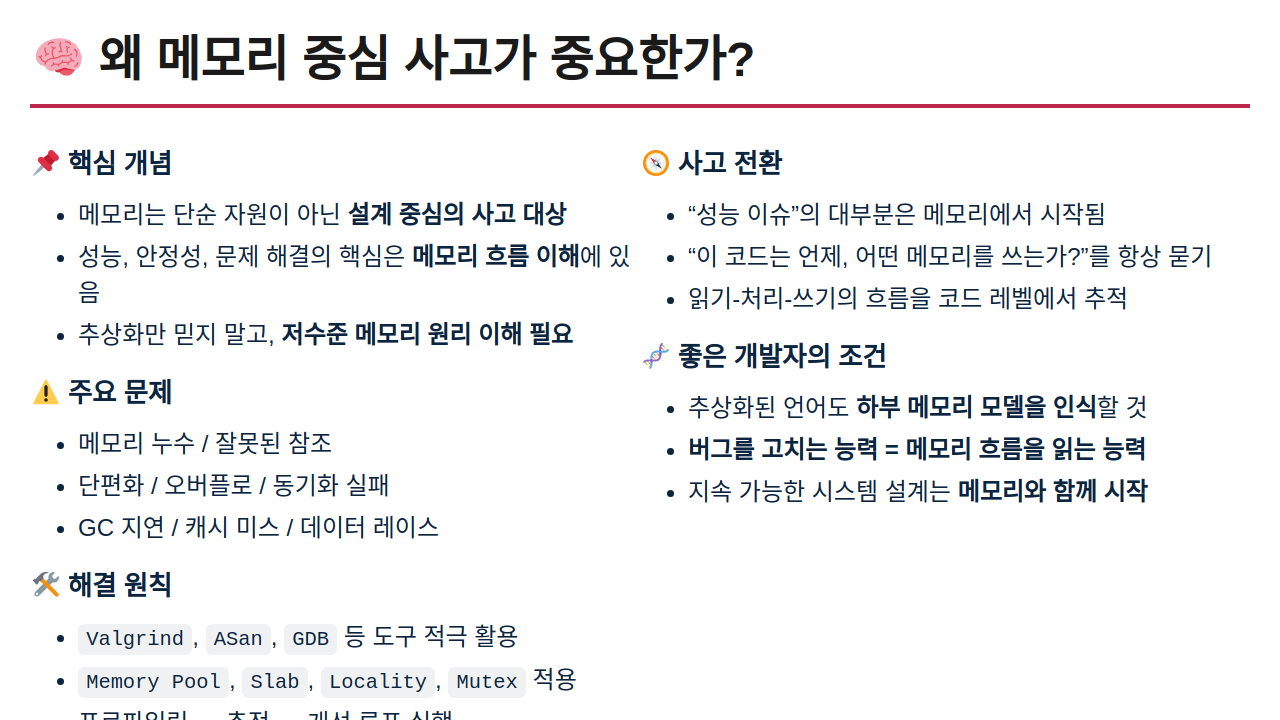
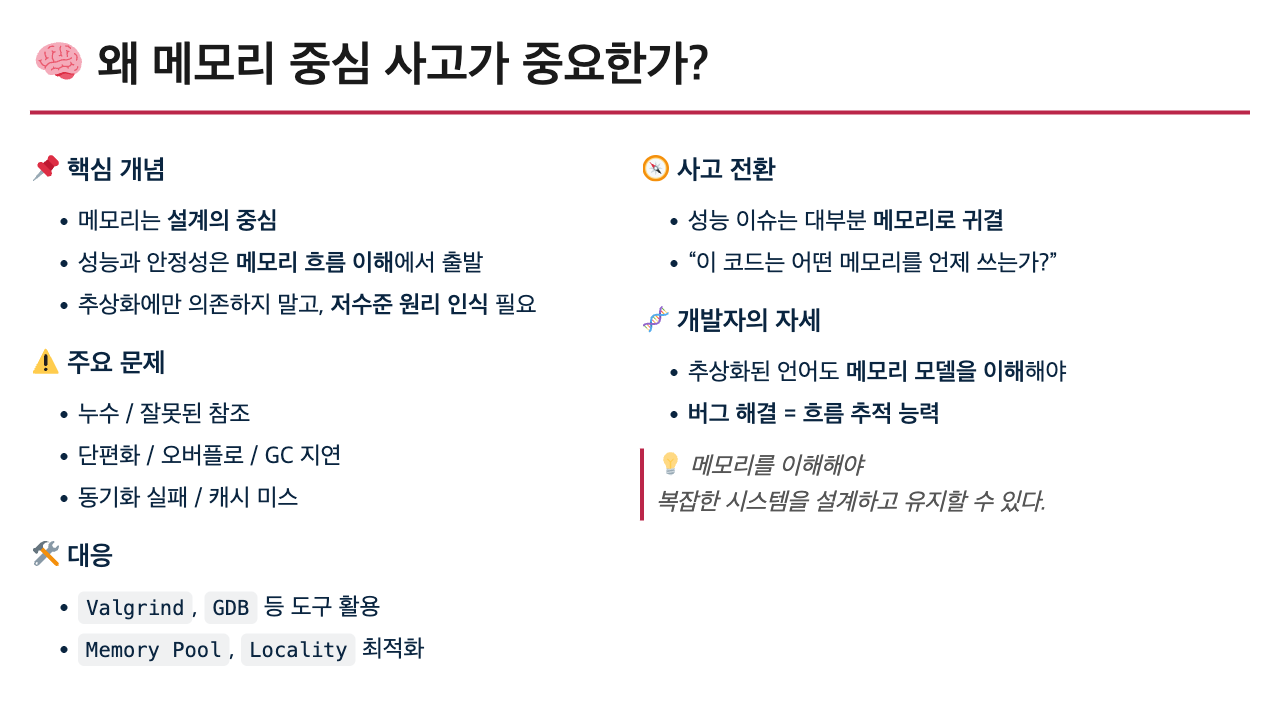
업데이트

diff --git a/marp/slides/why-memory-management-is-important.md b/marp/slides/why-memory-management-is-important.md
@@ -5,37 +5,33 @@
 <div style="flex: 1;">
 
 ### 📌 핵심 개념
-- 메모리는 단순 자원이 아닌 **설계 중심의 사고 대상**
-- 성능, 안정성, 문제 해결의 핵심은 **메모리 흐름 이해**에 있음
-- 추상화만 믿지 말고, **저수준 메모리 원리 이해 필요**
+- 메모리는 **설계의 중심**
+- 성능과 안정성은 **메모리 흐름 이해**에서 출발
+- 추상화에만 의존하지 말고, **저수준 원리 인식** 필요
 
 ### ⚠ 주요 문제
-- 메모리 누수 / 잘못된 참조  
-- 단편화 / 오버플로 / 동기화 실패  
-- GC 지연 / 캐시 미스 / 데이터 레이스
+- 누수 / 잘못된 참조  
+- 단편화 / 오버플로 / GC 지연  
+- 동기화 실패 / 캐시 미스
 
-### 🛠 해결 원칙
-- `Valgrind`, `ASan`, `GDB` 등 도구 적극 활용  
-- `Memory Pool`, `Slab`, `Locality`, `Mutex` 적용  
-- 프로파일링 → 추적 → 개선 루프 실행
+### 🛠 대응
+- `Valgrind`, `GDB` 등 도구 활용  
+- `Memory Pool`, `Locality` 최적화
 
 </div>
 
 <div style="flex: 1;">
 
+
 ### 🧭 사고 전환
-- “성능 이슈”의 대부분은 메모리에서 시작됨
-- “이 코드는 언제, 어떤 메모리를 쓰는가?”를 항상 묻기
-- 읽기-처리-쓰기의 흐름을 코드 레벨에서 추적
+- 성능 이슈는 대부분 **메모리로 귀결**
+- “이 코드는 어떤 메모리를 언제 쓰는가?”
 
-### 🧬 좋은 개발자의 조건
-- 추상화된 언어도 **하부 메모리 모델을 인식**할 것
-- **버그를 고치는 능력 = 메모리 흐름을 읽는 능력**
-- 지속 가능한 시스템 설계는 **메모리와 함께 시작**
+### 🧬 개발자의 자세
+- 추상화된 언어도 **메모리 모델을 이해**해야  
+- **버그 해결 = 흐름 추적 능력**
 
----
-
-> 💡 메모리를 이해하는 개발자만이,  
-> 복잡한 시스템을 통제할 수 있다.
+> 💡 메모리를 이해해야  
+> 복잡한 시스템을 설계하고 유지할 수 있다.
 
 </div>
